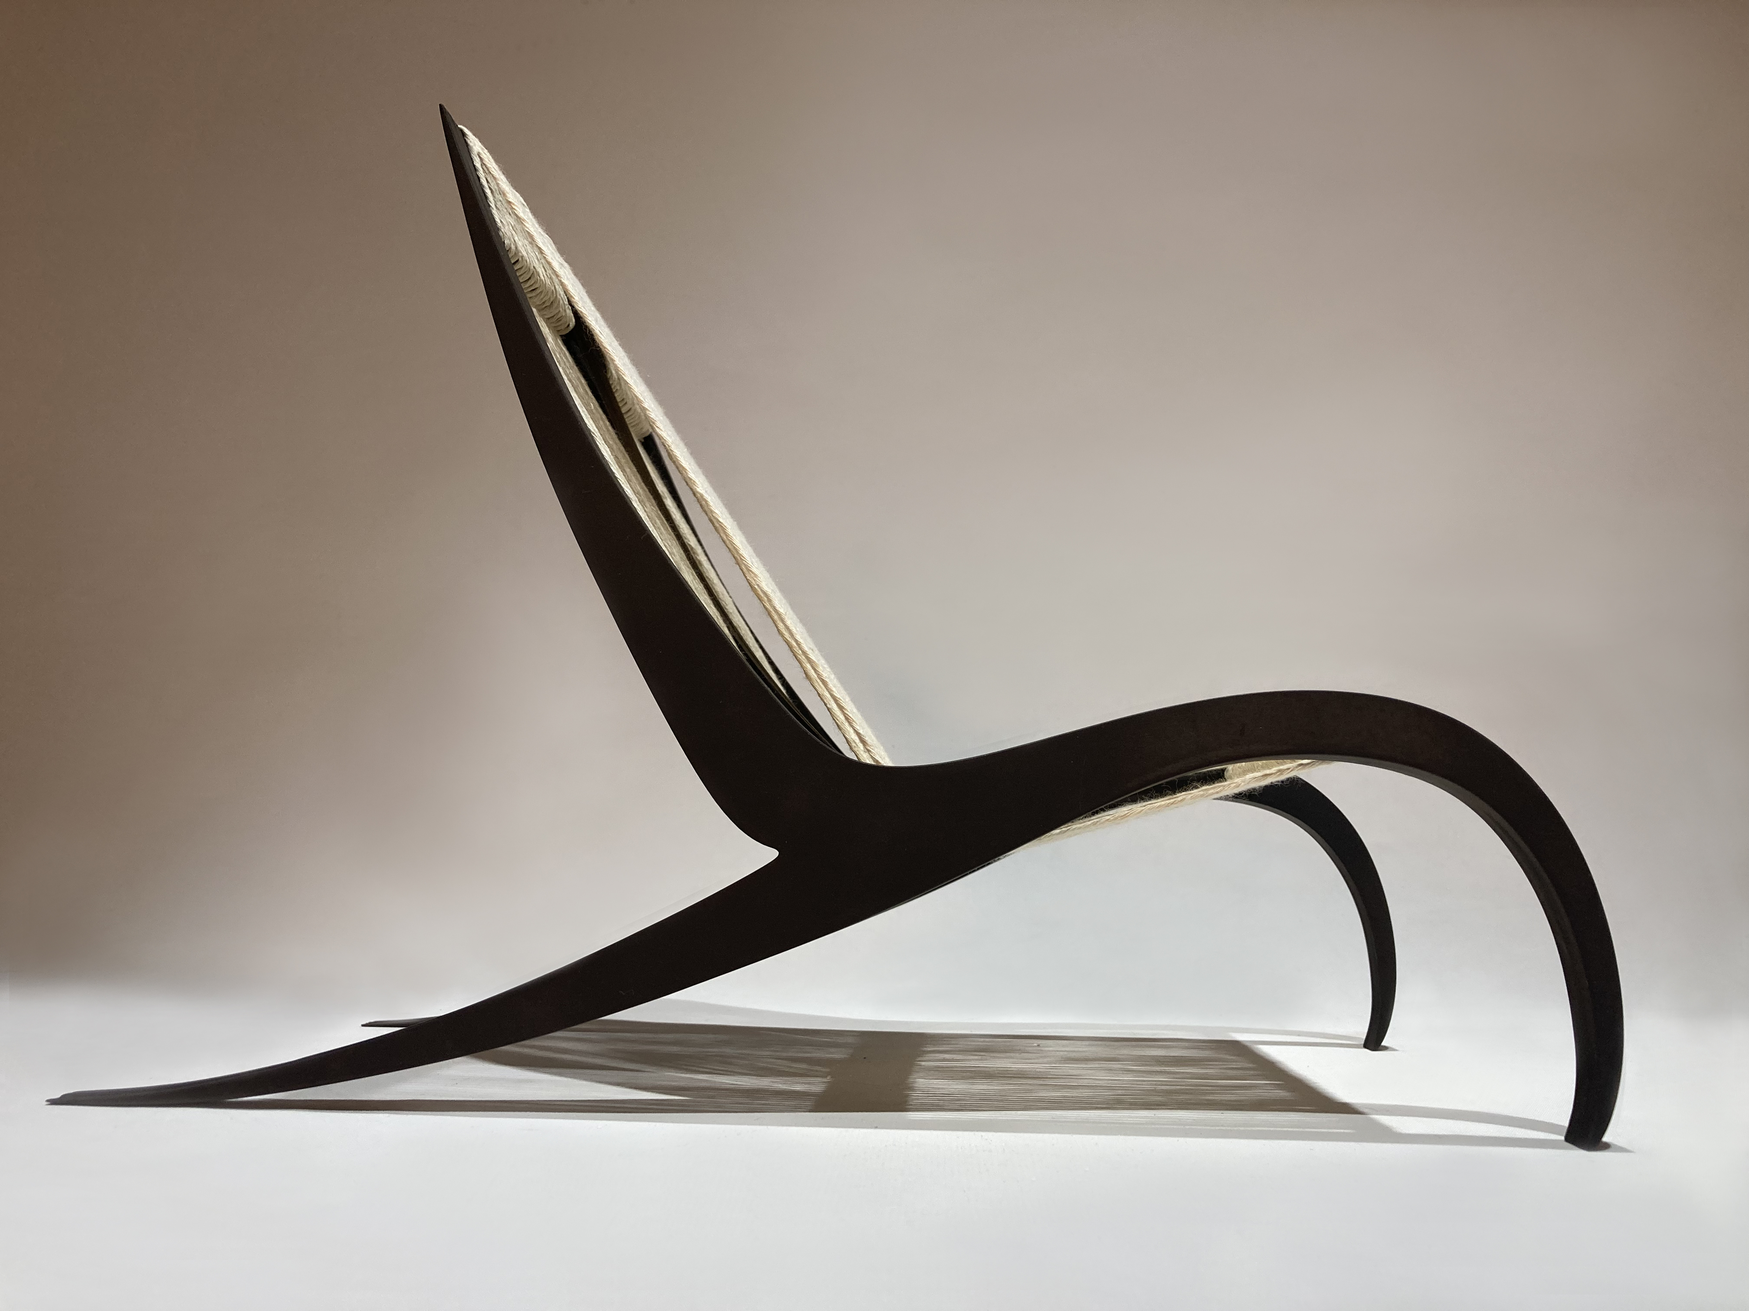
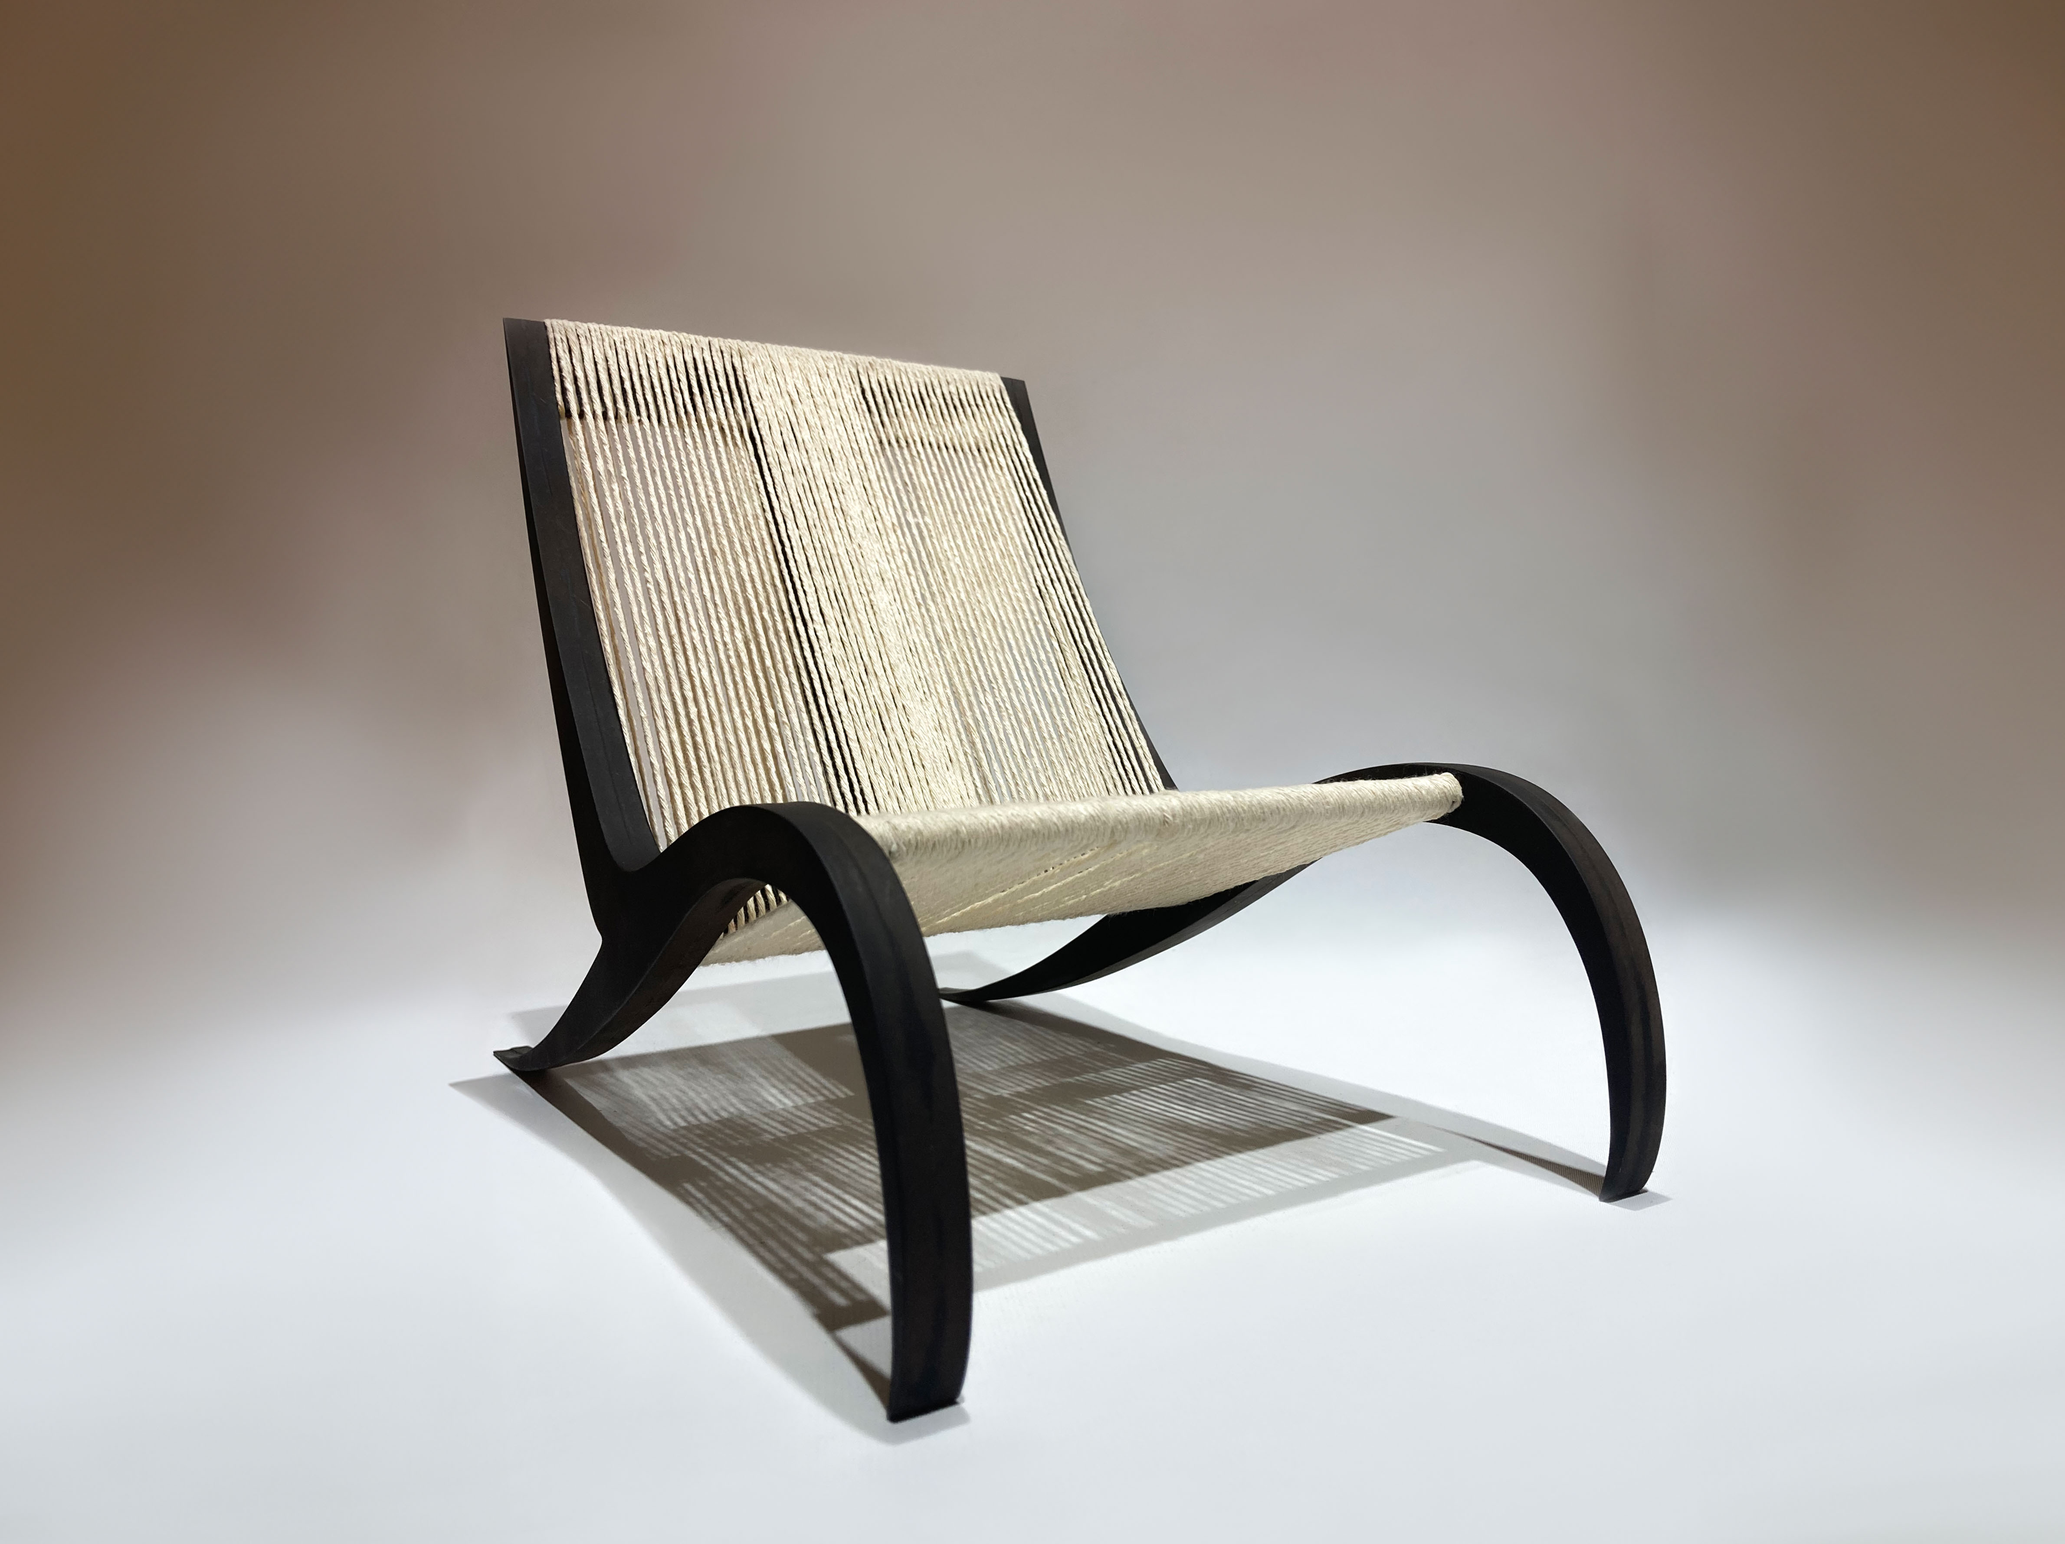
dfs
sdf

diff --git a/chair.html b/chair.html
@@ -14,7 +14,7 @@
     <body>
         <div class="navbar">
             <div class="navleft">
-                    <a href=index.html class="link">Kevin Xu</a>
+                    <a href=index.html class="link name">Kevin Xu</a>
             </div>
             <div class="navright">
                     <a href=index.html class="link active">Work</a>
@@ -51,79 +51,179 @@
         </div>
 
         <!--Images-->
-        <img class="heroimage"src="./assets/projects/cranechairs/compressed2/render_1.jpg" alt="Dynamic Chair">
-        <img class="projectimage"src="./assets/projects/cranechairs/compressed2/render_4.jpg" alt="Dynamic Chair">
-        <img class="smallprojectimage"src="./assets/projects/cranechairs/compressed2/render_5.jpg" alt="Dynamic Chair">
-        <img class="smallprojectimage"src="./assets/projects/cranechairs/compressed2/render_2.jpg" alt="Dynamic Chair">
-        <img class="smallprojectimage"src="./assets/projects/cranechairs/compressed2/render_3.jpg" alt="Dynamic Chair">
-        <img class="smallprojectimage"src="./assets/projects/cranechairs/compressed2/render_6.jpg" alt="Dynamic Chair">
+        <img class="heroimage"src="./assets/projects/cranechairs/1.jpg" alt="Dynamic Chair">
+        <img class="projectimage"src="./assets/projects/cranechairs/2.jpg" alt="Dynamic Chair">
+        
+      
         <div class="detailbox">
             <div class="leftdetail1">
-                <p class="statement">Form is Function</p>
+                <p class="statement">A Lounge Chair sculpted by Choreography of the Crane Dance.</p>
                 <p class="detailtext">
-                    Minimalism has been a rising trend in design. Many great designs we know today helped popularize the philosophy of minimalism and function driven form, stripping down everything to its essentials.
-                    However, many designs have started to look similar and uninspiring in pursuit of minimalism. Products that blindly follow minimalism frequently sacrifice the emotional component of design. 
+                    The Crane Chair is modeled after by the traditional Crane Dance "Dongnae" performed by the Joseonjok Korean ethnic group. Dancers imitate the mating dance of cranes, with flowing fabrics on their body further enhancing the dynamism. Lightweight and airy, this chair aims to bring the beauty of dance into everyday life. 
                 </p>
             </div>
             <div class="rightdetail">
-                <img class="detailimage"src="./assets/projects/cranechairs/compressed2/render_3.jpg" alt="Dynamic Chair">
-                <p class="detailimagesubtitle">subtitle subtitle</p>
+                <img class="detailimage"src="./assets/projects/cranechairs/10.jpg" alt="Dynamic Chair">
+                <p class="detailimagesubtitle">Elegant and graceful in both public lounge and residential settings</p>
+            </div>
+        </div>
+        <img class="projectimage"src="./assets/projects/cranechairs/3.jpg" alt="Dynamic Chair">
+        <img class="projectimage"src="./assets/projects/cranechairs/4.jpg" alt="Dynamic Chair">
+        <div class="detailbox">
+            <div class="leftdetail1">
+                <p class="callout">People are not Machines.</p>
+                <p class="detailtext">
+                    Minimalistic design has its place. It simplifies overly complex tasks in our day-to-day, helping us get from A to B. Many great designs we know today helped popularize this philosophy of minimalism and function driven form that strips everything down to it's essentials.
+
+                    However, many products have started to look similar and uninspiring following the rising trend of minimalism.<strong> Products that blindly pursue the minimalist design language purely for minimalism's sake frequently sacrifice the emotional component of design. </strong><br><br>Form and function are inseperable concepts; and form-giving is a crucial aspect of design.
+    
+                </p>
+            </div>
+            <div class="rightdetail">
+                <img class="detailimage"src="./assets/projects/cranechairs/17.jpg" alt="Dynamic Chair">
+                <p class="detailimagesubtitle">Design trends change. Human nature doesnt.</p>
             </div>
         </div>
         <div class="detailbox">
-            <div class="leftdetail2">
-                <img class="detailimage"src="./assets/projects/cranechairs/compressed2/render_3.jpg" alt="Dynamic Chair">
+            <div class="leftdetail1">
+                <p class="callout">Form is Function.</p>
+                <p class="detailtext">
+                    Designs can be enchanting. Forms can invoke universal human desire. The Design of furniture, clothing, and automobiles are powerful way of self expression for people. Forms that makes people feel emotions, that attract and intrigue people, that acknowledge the inner human are an important component in lasting designs that are cherished and kept for a long time. 
+
+                    <br><br>I set out to create a chair that makes a statement: <strong>form is function. </strong>Harking back to the sleek, enchanting curves of the 30s, because not everything has to be essential and minimal.
+
+                    Inspired by the elegant crane dance of the Korean minority group, this crane chair serves to bring the beauty of a traditional dance into a persons everyday life. Its form and function together as one. 
+ 
+
+                    (self expression on other hand) a curved line will always have more energy than a straight line
+                    minimalism for minimalism's sake. making a form beautiful isnt just decorating. Form is not frivolous/decorative! form and function cannot be separated. 
+                </p>
             </div>
             <div class="rightdetail">
-                <img class="detailimage"src="./assets/projects/cranechairs/compressed2/render_3.jpg" alt="Dynamic Chair">
+                <img class="detailimage"src="./assets/projects/cranechairs/16.jpg" alt="Dynamic Chair">
+                <p class="detailimagesubtitle">Designs that speak to people's inner emotions. That communicate their properties in artistic ways. That intrigue and create desire. Designs that are memorable and treasured.</p>
             </div>
         </div>
-        <p class="subtitle">Inspired by looms used in the traditional textiles and tapestry, the rope weave construction pays tribute to the clothing worn by the dancers.  </p>
         
+
+        <hr>
+
+        <div class="detailbox">
+            <div class="leftdetail1">
+                <p class="callout">Why the Crane Dance?</p>
+                <p class="detailtext">
+                    Inspired by the elegant crane dance of the Korean minority group, this crane chair serves to bring the beauty of a traditional dance into a persons everyday life. Its form and function together as one. 
+                </p>
+            </div>
+            <div class="rightdetail">
+                <img class="detailimage"src="./assets/projects/cranechairs/15.jpg" alt="Dynamic Chair">
+                <p class="detailimagesubtitle"></p>
+            </div>
+        </div>
+        <div class="detailbox">
+            <div class="leftdetail1">
+                <p class="callout">Deriving form from flight</p>
+                <p class="detailtext">
+                    Also investigated forms of cranes that inspired the dance directly, seatback is the swept wing.
+                </p>
+            </div>
+            <div class="rightdetail">
+                <img class="detailimage"src="./assets/projects/cranechairs/14.jpg" alt="Dynamic Chair">
+                <p class="detailimagesubtitle"></p>
+            </div>
+        </div>
+        
+        <div class="detailbox">
+            <div class="leftdetail1">
+                <p class="callout">Physical Model.</p>
+                <p class="detailtext">
+                    manufacturing considerations and fabrication 
+                </p>
+            </div>
+            <div class="rightdetail">
+                <img class="detailimage"src="./assets/projects/cranechairs/6.jpg" alt="Dynamic Chair">
+                <p class="detailimagesubtitle">Inspired by looms used in the traditional textiles and tapestry, the rope weave construction pays tribute to the clothing worn by the dancers.</p>
+            </div>
+        </div>
         <img class="smallprojectimage"src="./assets/projects/cranechairs/7.jpg" alt="Dynamic Chair">
-
-        <p class="subtitle">Physical prototype model</p>
-
-        <img class="smallprojectimage"src="./assets/projects/cranechairs/8.jpg" alt="Dynamic Chair">
-
-        <p class="subtitle">Visual lightness was a central theme when considering combination of materials. </p>
-
-        <div class="image-grid">
-            <img src="./assets/projects/cranechairs/6.jpg" alt="Dynamic Chair">
-            <img src="./assets/projects/cranechairs/9.jpg" alt="Dynamic Chair">
-        </div>
-
-        <p class="subtitle">Inspired by looms used in the traditional textiles and tapestry, the rope weave construction pays tribute to the clothing worn by the dancers.  </p>
-
-        <div class="image-grid">
-            <img src="./assets/projects/cranechairs/10.jpg" alt="Dynamic Chair">
-            <img src="./assets/projects/cranechairs/11.jpg" alt="Dynamic Chair">
-        </div>
-        <div class="image-grid">
-            <img src="./assets/projects/cranechairs/render_9.png" alt="Dynamic Chair">
-            <img src="./assets/projects/cranechairs/render_11.png" alt="Dynamic Chair">
-        </div>
-
-        <p class="subtitle">Three ideas were explored before the process of designing the final chair, each were inspired by different movements within the dance.</p>
-
-        <div class="image-grid">
-            <img src="./assets/projects/cranechairs/3.jpg" alt="Dynamic Chair">
-            <img src="./assets/projects/cranechairs/4.jpg" alt="Dynamic Chair">
+        <div class="detailbox">
+            <div class="leftdetail2">
+                <img class="detailimage"src="./assets/projects/cranechairs/8.jpg" alt="Dynamic Chair">
+                <p class="detailimagesubtitle"></p>
+            </div>
+            <div class="rightdetail">
+                <img class="detailimage"src="./assets/projects/cranechairs/9.jpg" alt="Dynamic Chair">
+                <p class="detailimagesubtitle"></p>
+            </div>
         </div>
         
         
-        <div class="image-grid">
-            <img src="./assets/projects/cranechairs/1.jpg" alt="Dynamic Chair">
-            <img src="./assets/projects/cranechairs/2.jpg" alt="Dynamic Chair">
+        <hr>
+        <div class="detailbox">
+            <div class="leftdetail1">
+                <p class="callout">Informed by Tradition.</p>
+                <p class="detailtext">
+                    I wanted to constrain myself to a more traditional design language. Inspired by looms used in the traditional textiles and tapestry, the rope weave construction pays tribute to the clothing worn by the dancers. The central beam shown with the waving of the rope mimics traditional furniture-making in Asia of that time period. 
+                </p>
+                
+            </div>
+            <div class="rightdetail">
+                
+                <img class="detailimage"src="./assets/projects/cranechairs/11.jpg" alt="Dynamic Chair">
+                <p class="detailimagesubtitle"></p>
+            </div>
         </div>
+        
 
-        <p class="subtitle">Proof of concept models + quick mockup </p>
+        <div class="detailbox">
+            <div class="leftdetail1">
+                <p class="callout">Visual lightness</p>
+                <p class="detailtext">
+                    Visual lightness was a central theme when considering combination of materials.
+                </p>
+            </div>
+            <div class="rightdetail">
+                <img class="detailimage"src="./assets/projects/cranechairs/12.jpg" alt="Dynamic Chair">
+                <p class="detailimagesubtitle"></p>
+            </div>
+        </div>
+        
+        <div class="detailbox">
+            <div class="leftdetail1">
+                <p class="callout">Sustainability.</p>
+                <p class="detailtext">
+                    Though perhaps not the most practical lounge chair, details on the Crane Chair are all thought-out. Materials. no polyurethane foam because of rope construction. Low carbon sustainable wood pieces. Easily recyclable.
+                </p>
+            </div>
+            <div class="rightdetail">
+                <img class="detailimage"src="./assets/projects/cranechairs/5.jpg" alt="Dynamic Chair">
+                <p class="detailimagesubtitle"></p>
+            </div>
+        </div>
+        
+        
+        <p class="separatecallout">Rendering.</p>
+        <p class="subtitle">Three ideas were explored before the process of designing the final chair, each were inspired by different movements within the dance. Three ideas were explored before the process of designing the final chair, each were inspired by different movements within the dance.</p>
 
-        <img class="smallprojectimage"src="./assets/projects/cranechairs/5.jpg" alt="Dynamic Chair">
-        <img class="smallprojectimage"src="./assets/projects/cranechairs/progress.png" alt="Dynamic Chair">
-        <p class="subtitle">Setting up material nodes for rendering </p>
-        <img class="projectimage"src="./assets/projects/cranechairs/compressed2/testshot.jpg" alt="Dynamic Chair">
-        <img class="projectimage"src="./assets/projects/cranechairs/render_12.png" alt="Dynamic Chair">
+
+        <div class="detailbox">
+            <div class="leftdetail1">
+                <p class="callout">Rendering.</p>
+                <p class="detailtext">
+                    Setting up material nodes for rendering; procedural wood pattern for realistic wood texture on chair.
+                </p>
+            </div>
+            <div class="rightdetail">
+                <img class="detailimage"src="./assets/projects/cranechairs/13.jpg" alt="Dynamic Chair">
+                <p class="detailimagesubtitle">setting up blender nodes in cycles after importing the model from solidworks.</p>
+            </div>
+        </div>
+       
+
+
+     
+
+
         <div class="footer2">
             <a href=cmr.html class="nextproject">Next Project</a>
         </div>

diff --git a/CSS/styling.css b/CSS/styling.css
@@ -67,6 +67,15 @@ body {
 .navbar a {
   color:#1D1D1F; /* highlighted color */
   text-decoration: none;
+  transition: color 0.3s ease;
+}
+
+a:hover {
+  color: #818181; /* Color when hovered */
+}
+
+.name:hover {
+  color: #1D1D1F;
 }
 
 a.link.active {
@@ -169,6 +178,7 @@ a.link.active {
   margin-left: auto;
   margin-right: auto;
   margin-bottom: 50px;
+  justify-content: space-between;
 }
 
 .leftdetail1{
@@ -200,9 +210,19 @@ a.link.active {
 .callout{
   color:#1D1D1F;
   margin-bottom: 0px;
-  font-size: 26px;
+  font-size: 22px;
   font-weight: 700;
 }
+
+.separatecallout{
+  color:#1D1D1F;
+  margin-bottom: 50px;
+  font-size: 22px;
+  font-weight: 700;
+  margin-left: 15vw;
+  width: 70vw;
+}
+
 
 .detailtext{
   color:#1D1D1F;
@@ -216,12 +236,14 @@ a.link.active {
   width: 34.75vw;
   height: auto;
   object-fit: contain;
+
 }
 
 .detailimagesubtitle{
   margin-left: auto;
   margin-right: auto;
   margin-bottom: 0;
+  width: 34.75vw;
 
 }
 
@@ -231,7 +253,8 @@ a.link.active {
   margin-right: auto;
   width: fit-content;
   margin-top: -30px;
-  margin-bottom: 50px;
+  margin-bottom: 100px;
+  width: 70vw;
 }
 
 
@@ -313,6 +336,7 @@ hr{
   font-size: 18px;
   color: #1D1D1F;
   height: 5vh;
+  transition: color 0.3s ease;
 
 
 }

diff --git a/cmr.html b/cmr.html
@@ -14,7 +14,7 @@
     <body>
         <div class="navbar">
             <div class="navleft">
-                    <a href=index.html class="link">Kevin Xu</a>
+                    <a href=index.html class="link name">Kevin Xu</a>
             </div>
             <div class="navright">
                     <a href=index.html class="link active">Work</a>

diff --git a/index.html b/index.html
@@ -15,7 +15,7 @@
     <body>
         <div class="navbar">
             <div class="navleft">
-                    <a href=index.html class="link">Kevin Xu</a>
+                    <a href=index.html class="link name">Kevin Xu</a>
             </div>
             <div class="navright">
                     <a href=index.html class="link active">Work</a>

diff --git a/lamp.html b/lamp.html
@@ -14,7 +14,7 @@
     <body>
         <div class="navbar">
             <div class="navleft">
-                    <a href=index.html class="link">Kevin Xu</a>
+                    <a href=index.html class="link name">Kevin Xu</a>
             </div>
             <div class="navright">
                     <a href=index.html class="link active">Work</a>

diff --git a/spatula.html b/spatula.html
@@ -14,7 +14,7 @@
     <body>
         <div class="navbar">
             <div class="navleft">
-                    <a href=index.html class="link">Kevin Xu</a>
+                    <a href=index.html class="link name">Kevin Xu</a>
             </div>
             <div class="navright">
                     <a href=index.html class="link active">Work</a>

diff --git a/lab.html b/lab.html
@@ -14,7 +14,7 @@
     <body>
         <div class="navbar">
             <div class="navleft">
-                    <a href=index.html class="link">Kevin Xu</a>
+                    <a href=index.html class="link name">Kevin Xu</a>
             </div>
             <div class="navright">
                     <a href=index.html class="link">Work</a>
